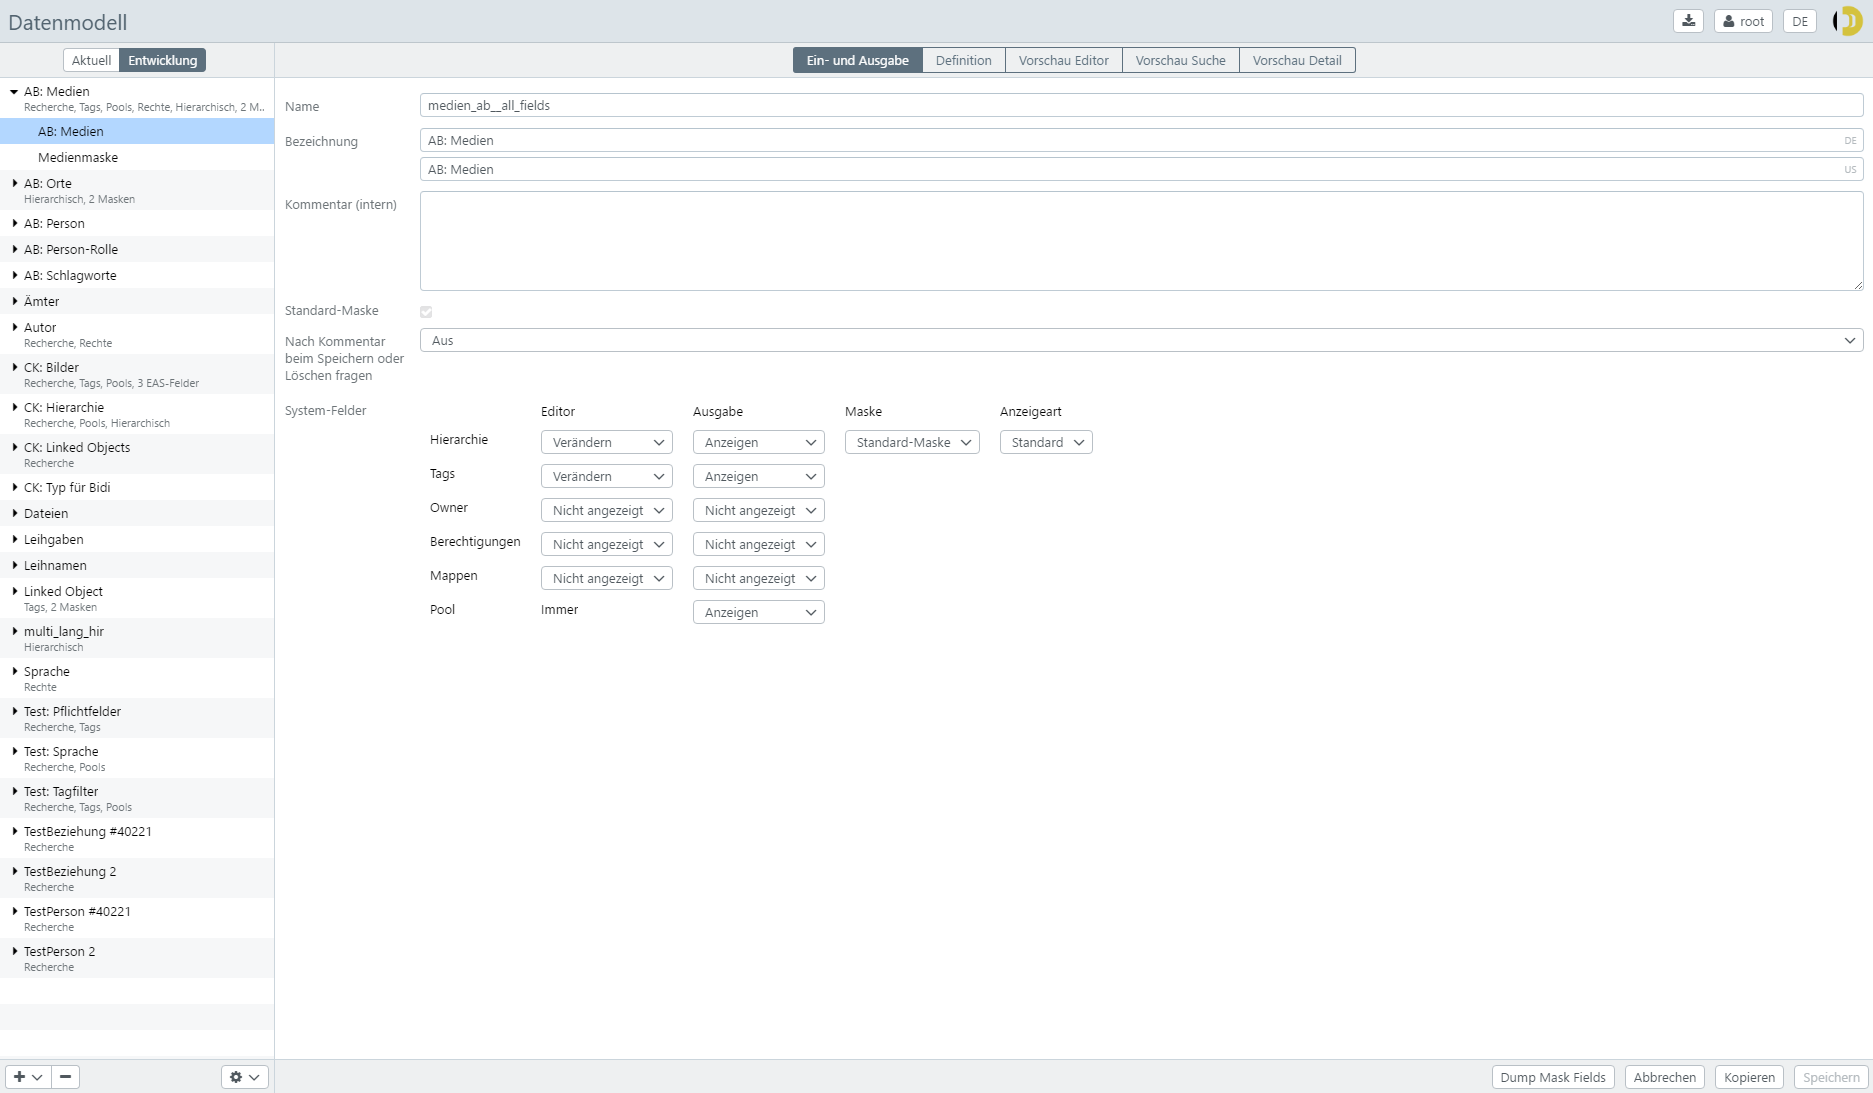
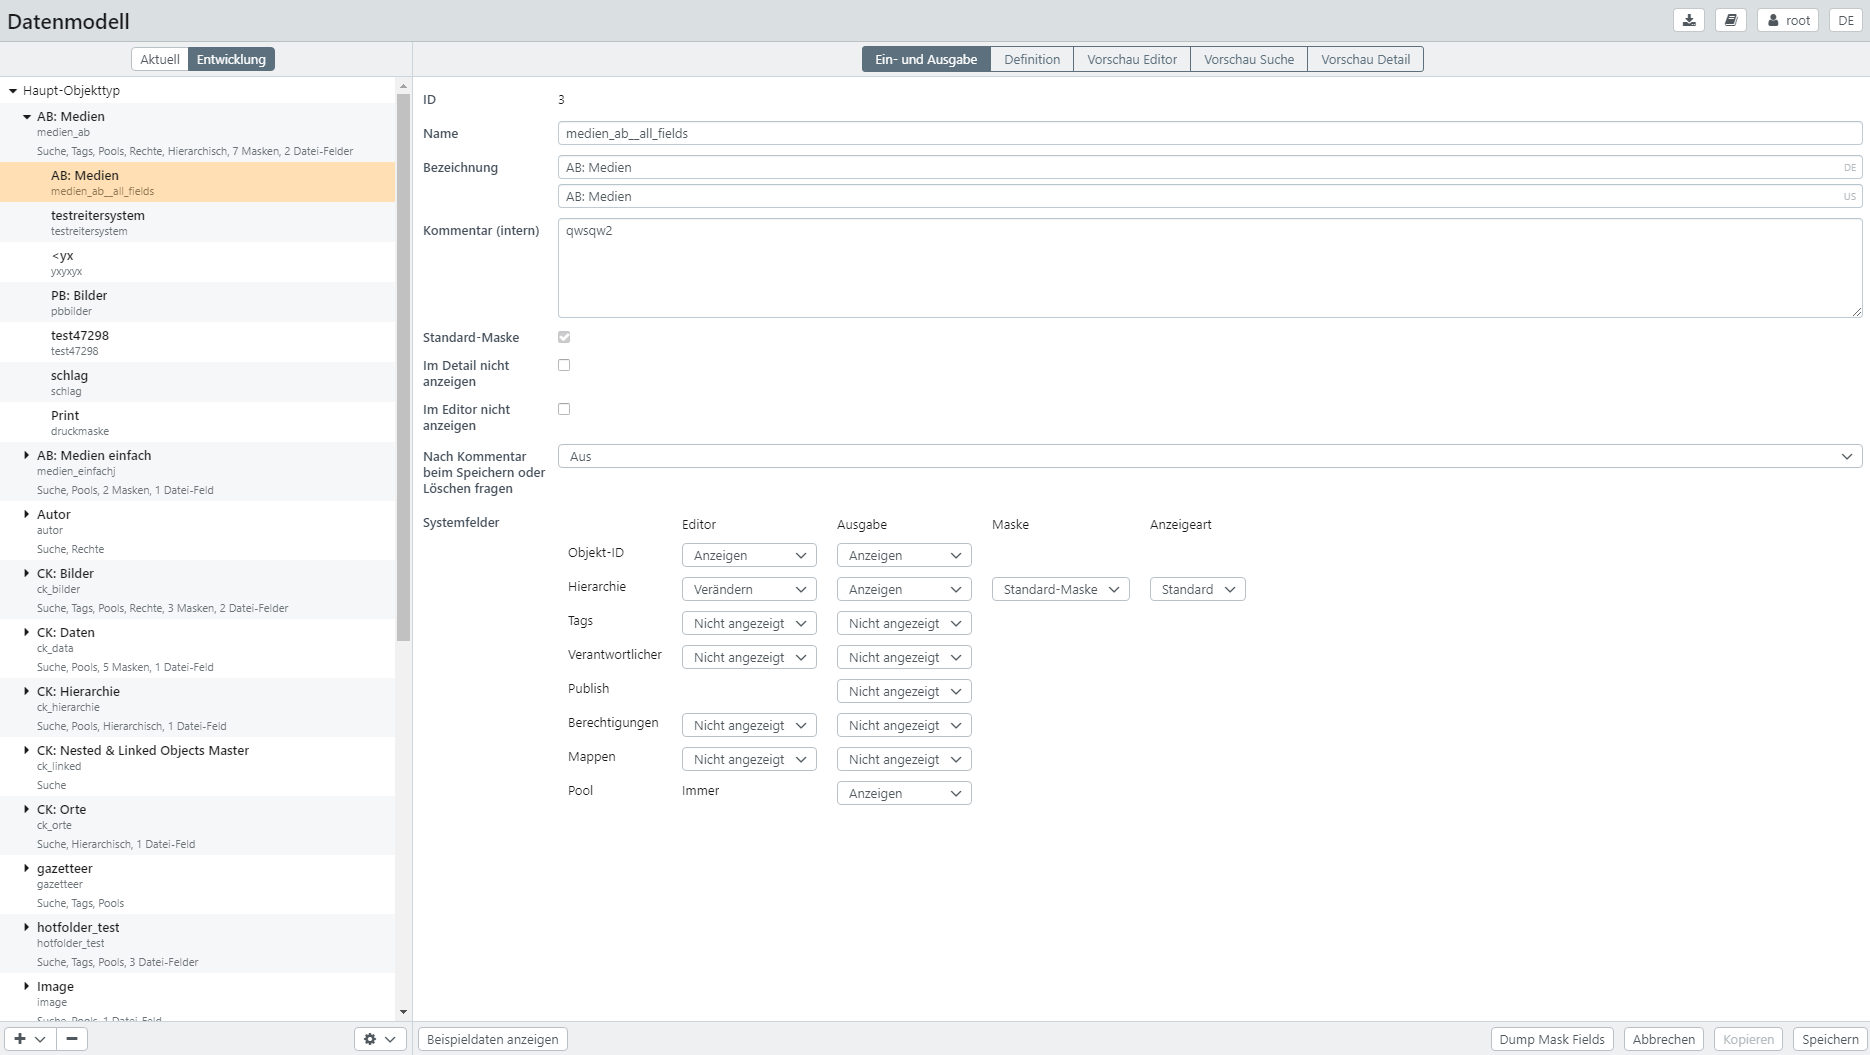
update mask documentation

diff --git a/content/webfrontend/administration/datamodel/mask/_index.md b/content/webfrontend/administration/datamodel/mask/_index.md
@@ -18,9 +18,12 @@ Für jeden Objekttyp muss mindestens eine Maske angelegt (die erste wird automat
 
 |Einstellung| |Erläuterung|
 |---|---|---|
+|ID| |Objekt-ID|
 |Name| |Name der Maske. Dieser Name wird für die Kommunikation zwischen Client und Server verwendet und als Fallback, wenn kein Anzeigename vergeben wurde.|
 |Bezeichnung|  |Ist der Anzeigename für die Maske, mehrsprachig. Unter diesem Namen sieht der Benutzer die angezeigten Datensätze.|
 |Kommentar (intern)| |Kommentar, wird nur hier angezeigt.|
+|im Detail nicht anzeigen| |Wird diese Einstellung gesetzt, steht die Maske in der Detailansicht NICHT zur Verfügung.|
+|im Editor nicht anzeigen| |Wird diese Einstellung gesetzt, steht die Maske in der Deteilansicht im Bearbetungsmodus NICHT zur Verfügung.|
 |Standard-Maske| |Falls gesetzt, ist diese Maske die Standard-Maske.|
 |Maske in Detail und Editor ausblenden| |Falls gesetzt, steht diese Maske nicht im Maskenauswahlmenü im Detail und Editor zur Verfügung.|
 |Nach Kommentar beim <bR>Speichern oder Löschen fragen| |Ein Kommentar wird vom Benutzer eingegeben und erscheint in der Änderungshistorie für andere sichtbar.|
@@ -28,6 +31,9 @@ Für jeden Objekttyp muss mindestens eine Maske angelegt (die erste wird automat
 | |Optional- Nein|Der Benutzer kann einen Kommentar eingeben, Voreinstellung ist "aus".|
 | |Optional - Ja|Der Benutzer kann einen Kommentar eingeben, Voreinstellung ist "an", der Benutzer kann aber darauf verzichten.|
 | |Immer|Der Benutzer muss einen Kommentar eingeben und kann das auch nicht abstellen.|
+|Systemfelder: *Objekt-ID*| |Legt fest, ob Objekt-ID im Editor oder Detail angezeigt werden.|
+| |Editor|*Anzeigen* - Im Editor wird dei Object-ID angezeigt.<br>*Nicht angezeigt* - Die Object-ID wird nicht angezeigt.|
+| |Ausgabe|*Anzeigen* - Im Detail wird die Objekt-ID angezeigt.<br>*Nicht angezeigt* - Die Objekt-ID wird nicht angezeigt.|
 |Systemfelder: *Hierarchie*| |Nur für hierarchische Objekttypen.|
 |                        |Editor|*Verändern* - Im Editor kann der übergeordnete Datensatz verändert werden <br>*Nur anzeigen* - Im Editor wird der übergeordnete Datensatz angezeigt, kann aber nicht verändert werden <br>*Nicht angezeigt* - Der übergeordnete Datensatz wird nicht angezeigt|
 |                        |Ausgabe|*Anzeige* - Im Detail und in der Text-Ansicht wird der übergeordnete Datensatz angezeigt <br>*Nicht angezeigt* - der übergeordnete Datensatz wird nicht angezeigt.|
@@ -36,7 +42,7 @@ Für jeden Objekttyp muss mindestens eine Maske angelegt (die erste wird automat
 |Systemfelder: *Tags*| |Legt fest, ob Tags im Editor oder Detail angezeigt werden.|
 |                   |Editor|*Verändern* - Tags können im Editor verändert werden <br>*Nur anzeigen* - Tags werden nur angezeigt <br>*Nicht anzeigen* - Tags erscheinen nicht im Editor|
 |                   |Ausgabe|*Anzeigen* - Tags werden in der Detail- und Textansicht angezeigt <br>*Nicht anzeigen* - Tags werden nicht angezeigt.|
-|Systemfelder: *Owner*| |Wie Tags. Zeigen den Verantwortlichen an.|
+|Systemfelder: *Verantwortlicher*| |Wie Tags. Zeigen den Verantwortlichen an.|
 |Systemfelder: *Berechtigungen*| |Wie Tags. Zeigen die Berechtigungen am Datensatz an. Berechtigungen sind nur verfügbar, wenn für den Objekttyp Berechtigungen eingerichtet sind.|
 |Systemfelder: Mappen| |Wie Tags. Hier wird festgelegt, ob angezeigt wird, in welchen Mappen sich der Datensatz befindet. Eine Veränderung im Editor ist nicht möglich. Nur verfügbar, wenn der Objekttyp in der Haupt-Suche angezeigt wird.|
 |Systemfelder: *Pool*| |Wie Tags. Allerdings wird die Pool-Zugehörigkeit im Editor immer angezeigt und ist auch immer veränderbar (soweit die Rechte des Benutzers das erlauben). Nur verfügbar, wenn für den Objekttyp Pool-Management angeschaltet ist.|
@@ -57,7 +63,6 @@ Für jeden Objekttyp muss mindestens eine Maske angelegt (die erste wird automat
 |Anzeigen| |Das Feld wird im Editor nur angezeigt und ist nicht veränderbar.|
 |Verändern| |Das Feld wird angezeigt und ist veränderbar.|
 |Nur Anfügen| |Das Mehrfachfeld erlaubt nur ein ergänzen, löschen ist nicht erlaubt. *Nur bei Mehrfachfeldern.*|
-|Als Tabelle| |Wenn gesetzt, wird das Mehrfachfeld in einer horizontalen Tabelle angezeigt. Wenn nicht gesetzt, wird das Mehrfachfeld in der Haupt-Tabelle angezeigt. *Nur bei Mehrfachfeldern.*|
 |Benutzerhinweis| |Wird im Editor angezeigt und dient dem Benutzer als Hilfe, wie dieses Feld benutzt wird.|
 |**Ausgabe**| | |
 |Detail| |Das Feld ist in der Detailansicht und in der Experten-Suche sichtbar.|
